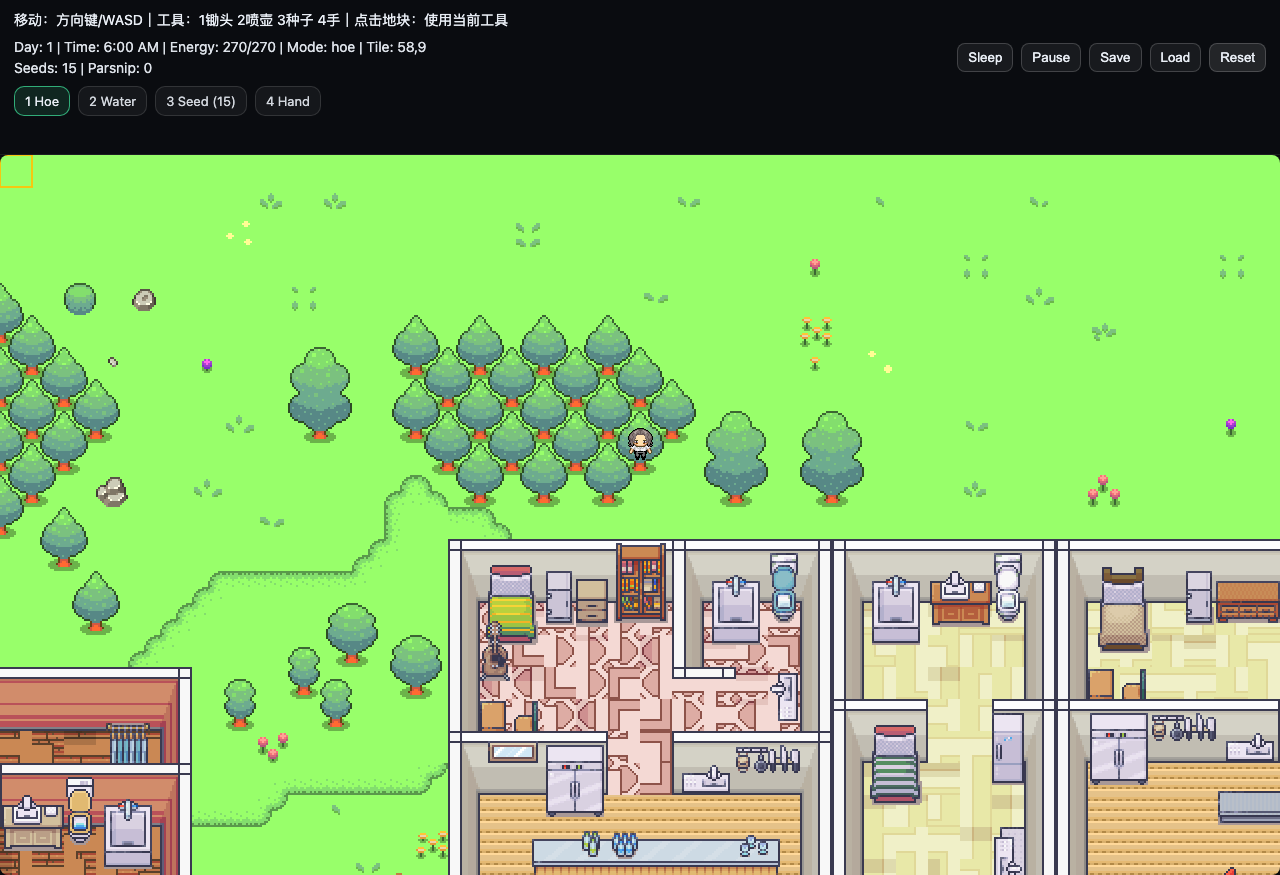
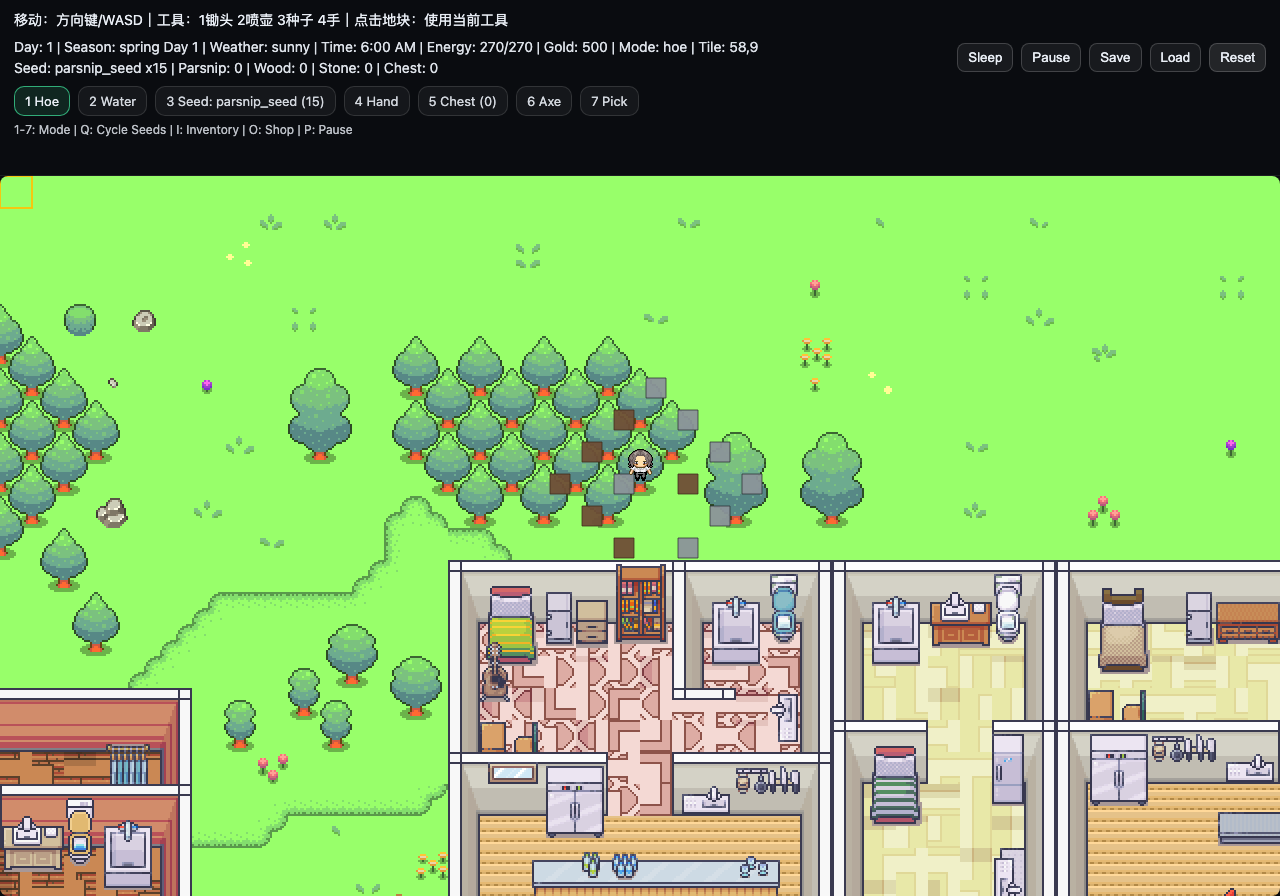
docs: add per-feature screenshots to gameplay guide

diff --git a/src/phaser/scenes/WorldScene.ts b/src/phaser/scenes/WorldScene.ts
@@ -629,6 +629,32 @@ export class WorldScene extends Phaser.Scene {
 
     const base = { tx: this.playerTile.tx, ty: this.playerTile.ty };
 
+    const tryPlaceNear = (kind: "wood" | "stone", preferred: Array<{ tx: number; ty: number }>) => {
+      for (const c of preferred) {
+        if (c.tx < 0 || c.ty < 0 || c.tx >= this.map.width || c.ty >= this.map.height) continue;
+        const blocked = this.collisionsLayer.getTileAt(c.tx, c.ty, true);
+        const isBlocked = Boolean(blocked?.properties?.collide);
+        if (isBlocked) continue;
+        if (c.tx === base.tx && c.ty === base.ty) continue;
+        if (this.gameState.placeResource(c.tx, c.ty, kind)) return true;
+      }
+      return false;
+    };
+
+    // Place at least one of each near the player for the demo UX (deterministic screenshots + discoverability).
+    tryPlaceNear("wood", [
+      { tx: base.tx + 1, ty: base.ty },
+      { tx: base.tx, ty: base.ty + 1 },
+      { tx: base.tx - 1, ty: base.ty },
+      { tx: base.tx, ty: base.ty - 1 }
+    ]);
+    tryPlaceNear("stone", [
+      { tx: base.tx - 1, ty: base.ty },
+      { tx: base.tx, ty: base.ty - 1 },
+      { tx: base.tx + 1, ty: base.ty },
+      { tx: base.tx, ty: base.ty + 1 }
+    ]);
+
     const candidates: Array<{ tx: number; ty: number }> = [];
     const maxDist = 10;
     for (let d = 3; d <= maxDist; d++) {

diff --git a/playwright.config.ts b/playwright.config.ts
@@ -2,9 +2,10 @@ import { defineConfig, devices } from "@playwright/test";
 
 export default defineConfig({
   testDir: "e2e",
-  timeout: 60_000,
+  timeout: 90_000,
   expect: { timeout: 10_000 },
-  fullyParallel: true,
+  fullyParallel: false,
+  workers: 1,
   use: {
     baseURL: "http://127.0.0.1:4175",
     trace: "retain-on-failure",

diff --git a/docs/玩法说明.md b/docs/玩法说明.md
@@ -5,6 +5,10 @@
 - 打开浏览器访问：`http://localhost:4173/`
 - 如果访问不了：在项目根目录运行 `npm run preview:daemon`（启动），运行 `npm run preview:stop`（停止）
 
+示意图（HUD/世界）：
+
+![World](./screenshots/01-world.png)
+
 ---
 
 ## 1. 核心目标：体验“农耕闭环”
@@ -44,6 +48,10 @@
 
 - 鼠标左键点击地块：对该地块使用当前工具
 
+示意图（耕地/浇水/成熟作物）：
+
+![Farming](./screenshots/02-farming.png)
+
 交互限制（更接近星露谷的手感）：
 
 - 只能操作玩家**相邻 1 格（上下左右）**范围内的地块
@@ -72,6 +80,10 @@
 - 打开商店会自动暂停时间，关闭后恢复
   - 你也可以手动按 `P`/Pause 控制时间
 
+示意图（Shop 面板）：
+
+![Shop](./screenshots/04-shop.png)
+
 ### 2.6 箱子（Chest：存放物品）
 
 放置：
@@ -92,6 +104,10 @@
   - 左键：拿起一整叠 / 放下（合并/交换）
   - 右键：拿起半叠 / 放下 1 个
 
+示意图（打开箱子 + Inventory 里出现 Chest 网格）：
+
+![Chest](./screenshots/05-chest.png)
+
 ### 2.7 采集资源（wood / stone）
 
 说明：
@@ -103,6 +119,10 @@
 - 按 `6` 切到 Axe，对着木头格子点一下：会消耗体力与时间；砍完会掉落 `wood`
 - 按 `7` 切到 Pickaxe，对着石头格子点一下：会消耗体力与时间；挖完会掉落 `stone`
 - 掉落会直接进入背包（可在 Inventory 里看到）
+
+示意图（木头/石头资源与 Axe 模式）：
+
+![Gather](./screenshots/06-gather.png)
 
 ### 2.8 睡觉/过天
 
@@ -122,6 +142,10 @@
 打开/关闭：
 
 - 按 `I` 打开/关闭背包
+
+示意图（Inventory 面板）：
+
+![Inventory](./screenshots/03-inventory.png)
 
 特性：
 
